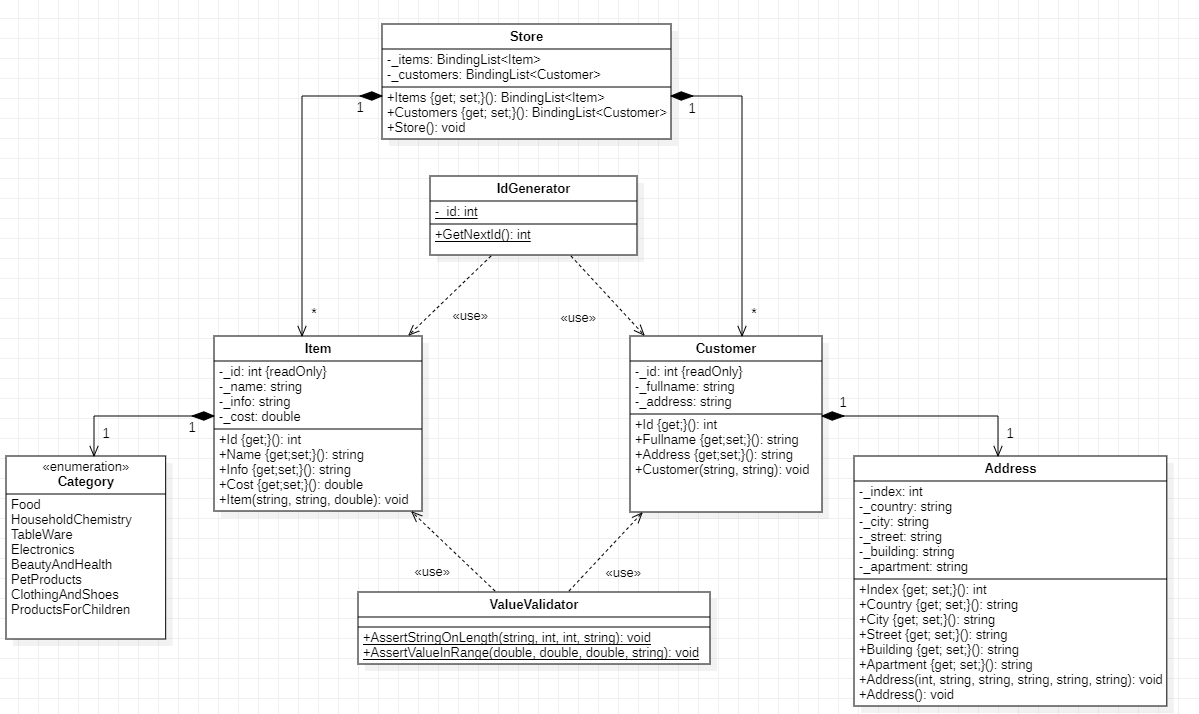
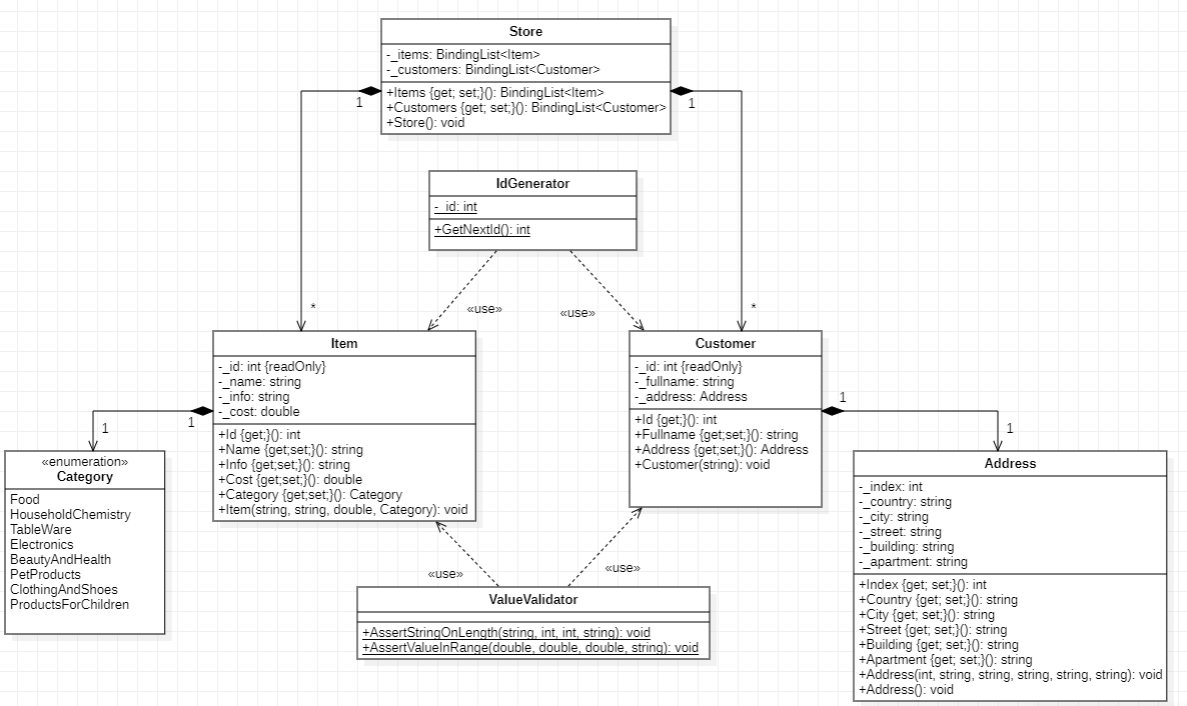
Изменены схемы.

diff --git a/src/ObjectOrientedPractices/ObjectOrientedPractices/View/Tabs/CustomersTab.cs b/src/ObjectOrientedPractices/ObjectOrientedPractices/View/Tabs/CustomersTab.cs
@@ -103,9 +103,7 @@ namespace ObjectOrientedPractices.View.Tabs
         /// </summary>
         private void AddButton_Click(object sender, EventArgs e)
         {
-            _currentCustomer = new Customer("Customer", new Address(100000, "Country",
-                                                                    "City", "Street", 
-                                                                    "Building", "Apartment"));
+            _currentCustomer = new Customer("Customer");
             Customers.Add(_currentCustomer);
             CustomersListBox.SelectedItem = _currentCustomer;
             FillCustomersListBox();
@@ -119,10 +117,7 @@ namespace ObjectOrientedPractices.View.Tabs
             for (int i = 0; i < 10; i++)
             {
                 _count++;
-                _currentCustomer = new Customer($"Customer {_count}", 
-                                                new Address(100000, "Country",
-                                                            "City", "Street",
-                                                            "Building", "Apartment"));
+                _currentCustomer = new Customer($"Customer {_count}"); 
                 Customers.Add(_currentCustomer);
             }
             FillCustomersListBox();

diff --git a/src/ObjectOrientedPractices/ObjectOrientedPractices/Model/Customer.cs b/src/ObjectOrientedPractices/ObjectOrientedPractices/Model/Customer.cs
@@ -68,13 +68,13 @@ namespace ObjectOrientedPractices.Model
         /// Создает экземпляр класса <see cref="Customer"/>.
         /// </summary>
         /// <param name="fullname">Имя. Должно быть от 1 до 200 символов.</param>
-        /// <param name="address">Адрес.</param>
         /// Класс контролирует уникальность присвоенного id.
-        public Customer(string fullname, Address address)
+        public Customer(string fullname)
         {
             _id = IdGenerator.GetNextId();
             Fullname = fullname;
-            Address = address;
+            Address = new Address(100000, "Country","City", "Street",
+                                          "Building", "Apartment");
         }
     }
 }
